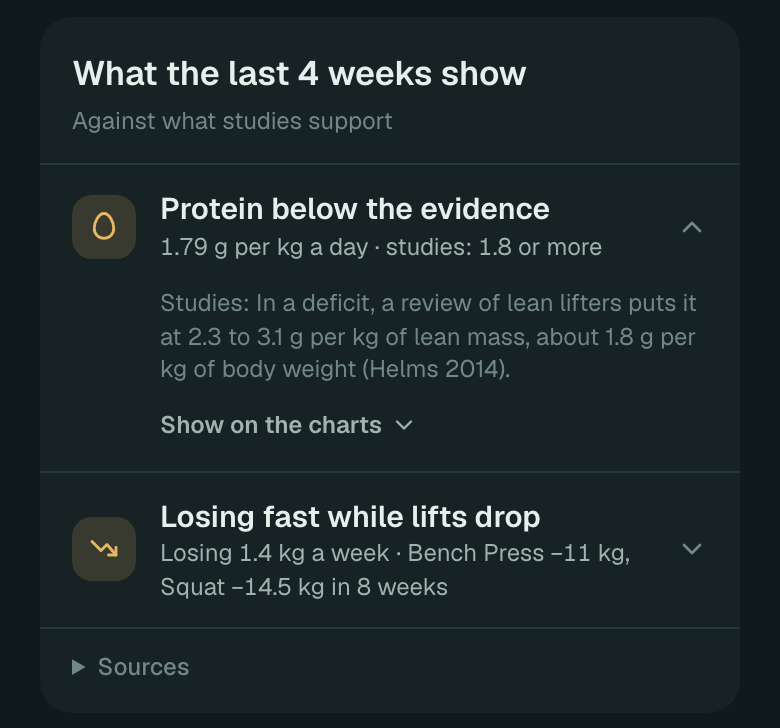
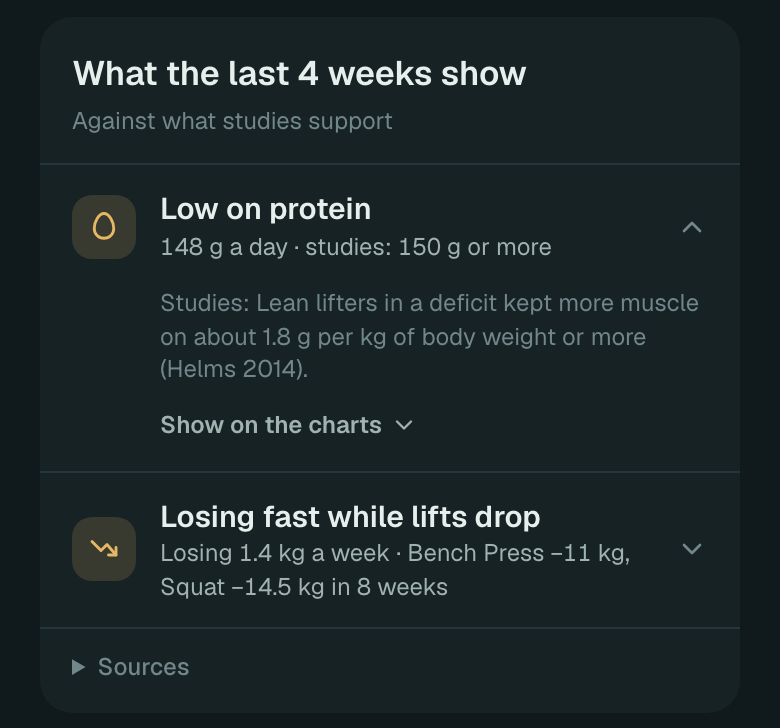
PR3d: plain words for low protein
The founder asked to leave technical wording out. "Protein below the
evidence" becomes "Low on protein", and the fact line gives grams a day
for the person's weight instead of g per kg.

- lib/physique/findings.ts: title, fact in grams (down and up so they never meet), shorter evidence
- lib/physique/__tests__/findings.test.ts: grams, and the first under the second
- docs/plan/STATUS.md, docs/plan/screens/PR3d: updated

Schema impact: none.

Changed region(s): [[0.2154, 0.3929, 0.8923, 0.544], [0.2154, 0.3324, 0.7692, 0.3626], [0.2154, 0.272, 0.7077, 0.3022]]

diff --git a/lib/physique/findings.ts b/lib/physique/findings.ts
@@ -245,12 +245,13 @@ export function findings(i: FindingInputs, through: LocalDate): Finding[] {
       const perKg = Number(gPerKg.toFixed(1)) >= floor ? gPerKg.toFixed(2) : gPerKg.toFixed(1);
       out.push({
         id: "protein-low",
-        title: "Protein below the evidence",
-        fact: `${perKg} g per kg a day · studies: ${floor.toFixed(1)} or more`,
+        title: "Low on protein",
+        // Plain grams for this person's weight, not g/kg (the founder: no technical wording). Down and up so the two never meet.
+        fact: `${Math.floor(g)} g a day · studies: ${Math.ceil(floor * endKg)} g or more`,
         // Two decimals when one would round up to the level it is under ("1.8, under 1.8" read as a contradiction).
         data: `Protein averaged ${n0(g)} g a day over ${complete.length} complete days in the last 4 weeks, ${perKg} g per kg of body weight.`,
         evidence: cut
-          ? `In a deficit, a review of lean lifters puts it at 2.3 to 3.1 g per kg of lean mass, about 1.8 g per kg of body weight (Helms 2014).`
+          ? `Lean lifters in a deficit kept more muscle on about 1.8 g per kg of body weight or more (Helms 2014).`
           : `Across 49 trials, gains from training levelled off at about 1.6 g per kg a day (Morton 2018).`,
         sources: cut ? ["Helms ER et al. Int J Sport Nutr Exerc Metab 2014;24:127–38"] : ["Morton RW et al. Br J Sports Med 2018;52:376–84"],
       });

diff --git a/lib/physique/__tests__/findings.test.ts b/lib/physique/__tests__/findings.test.ts
@@ -107,7 +107,9 @@ describe("Findings in a line (PR3d)", () => {
     const gain = run(gainSpec).find((f) => f.id === "gain-fast")!;
     expect(gain.fact).toMatch(/^Gaining \d\.\d kg a week · studies: up to \d\.\d kg$/);
     const protein = run(gainSpec).find((f) => f.id === "protein-low")!;
-    expect(protein.fact).toMatch(/^\d\.\d\d? g per kg a day · studies: 1\.6 or more$/);
+    expect(protein.fact).toMatch(/^\d+ g a day · studies: \d+ g or more$/);
+    const [had, need] = protein.fact.match(/\d+/g)!.map(Number);
+    expect(had).toBeLessThan(need);
   });
 
   it("follows the display unit", () => {

diff --git a/docs/plan/STATUS.md b/docs/plan/STATUS.md
@@ -120,7 +120,7 @@ Record wrong verdicts here as `YYYY-MM-DD · rule id · what it said · what was
 | PR3 Progress: goal first, connections in kg, every line named | done | 2026-10-21 | Founder review of Progress: the engine is right but the screen read as a data dump ("a quick glance at connections doesn't really tell me much and looks dull"); kilos read better than percent at a glance; no long descriptions (the AI coach will explain later), but an option to see where a connection came from, with a graph. Progress stays the one place that brings every part of the app together. **Earns its place:** no other app puts a lifter's own sessions against their sleep and food and says it in kilos on their own squat; MacroFactor, WHOOP and Bevel show each measure on its own screen. **From Mobbin:** WHOOP Recovery Impact Analysis (ranked list, one row per behaviour, the non-results shown greyed), Garmin Connect behaviour impact ("average when yes / when no", two numbers side by side), WHOOP Trend View (labelled reference lines, date at the top while scrubbing), Bevel Recovery (each value against your own range). **Order:** goal, Connections, Findings, Over time, weigh-ins and waist. **Goal card** (`components/progress/GoalCard.tsx`, replaces This week and Goal progress): trend weight, kg to go, bar from start, the date, "Losing 0.2 kg a week · plan 0.4 kg" and the judge's word; safety notes in full; Weekly report row; the small-caps caption, "Sleep is short" and the targets row left the page. **Connections** (`components/report/Connections.tsx`, also on the report): one row per thing checked, icon, label, "7h 48m vs 6h 10m", the difference in kg on the main lift trained most (ties: the heaviest), "No clear link" greyed, "With calories" for a condition merged into another; a row opens its sessions as two dot rows against usual with each group's average, the gap in kg (clear links only) and the studies line. Tapping a connection no longer jumps to the charts. **Engine:** `lib/physique/liftEffect.ts` (`referenceLift`, `effectKg`, `formatEffect` to 0.5 kg / 1 lb, `compareText`), `progressTimeline` adds `liftWeeks` (each main lift's weekly best e1RM with a least-squares line from 4 columns, `LIFT_FIT_MIN_COLUMNS`) and `summary.usualSleepH` (median night over the range). **Timeline:** weight with the goal line, calories as eaten against maintenance with the gap shaded, protein against target, training, one chart per main lift in kg (X1, opens `/exercise`), sleep against your usual (hollow weeks 15 min or more under) instead of 7 h; each reference line named in its heading with a line sample; the picked week's dates at the top. New token `chart-lift` (gold) in DESIGN.md rev 4.3 so lifts read apart from sets. Removed: `ThisWeekCard`, `GoalProgress`, `GoalEtaLine`, the connection focus on the timeline. **Deviation:** C7 had removed the "No clear difference" list; the founder approved bringing the non-results back as greyed "No clear link" rows in the PR3 mock. Tests: 8 new (lift weeks and line, usual sleep, reference lift and tie, kg and rounding, compare wording). Evidence: `npm run check` 594/594, eslint 0 errors, `npm run build` passes; Chromium 390px light and dark on the CONNECTIONS seed: `docs/plan/screens/PR3/` (Sleep +4 kg on squat, Calories +4 kg moved with carbs, opened sleep and protein rows, week of 14 Sep picked); `/code-review medium`: no findings. Not deployed yet (Vercel daily limit, see PR2). Schema impact: none. |
 | PR3b Train: no "Early read" | done | 2026-10-21 | Founder: on Train it says "Early read", "no clue what this means, it can go". It was the Strength row's word for the strength engine's `unclear` (too little to compare since the goal began), with a sub line that said no more. The row now shows only when there is a reading (rising, holding, one lift down, dropping); the Exercises row below opens the same charts. Evidence: `npm run check` passes; in Chromium on the CONNECTIONS seed the row is gone, on LOSS-1 it reads "Dropping · Squat −12%, Bench Press −7%". Schema impact: none. |
 | PR3c Progress tested on every seed | done | 2026-10-21 | Founder: test Progress on several data sets for whether it gives valuable insight. All 14 `/dev/seed-physique` presets run at 390px against what each was built to contain. **Fixed:** (1) each lift's change was a plain line through one best a week, so flat lifts with 3% session noise read "+6 kg" or "−2.5 kg" and on SHORT SLEEP + LOW PROTEIN contradicted Findings ("Squat −3.2%" beside "+2 kg"): the line now runs through every session and its change shows only at 2.5 standard errors from flat (`LIFT_FIT_Z`; at most 3 of 60 flat lifts in the test), otherwise the level alone and no claim (a sudden drop can fail a straight line, so "steady" would say too much; a second step test was tried and dropped as too noisy); (2) a date over half a year out read like a past one ("Around Wed 15 Sep" on UNDER-LOGGING): now "Around Sep 2027", and the year shows across a new year; (3) "Date in two weeks" read as the goal date: now "A date after two weeks of weigh-ins"; (4) "Moving away from the target" beside "Holding steady" (SLEEP-1): "No date at this rate"; (5) a goal the app won't coach (SAFE-0/3/4/5) no longer shows a date, kg to go or the bar; (6) "Calibrating" and "No goal set" left the goal card (they only said there was nothing to judge yet); (7) the weight summary said "over 3 months" for 10 days of data: "since 12 Oct"; (8) the protein finding read "1.8 g per kg" under "about 1.8": two decimals when one rounds up to the level. **Left for the founder** (see the session report): Findings are still long paragraphs in %; Connections stay empty until about 24 sessions (8 weeks at three a week); HRV and resting heart rate are not on Progress (WATCH); sleep against your usual hides chronically short sleep on the chart (SLEEP-1, Findings still says it); maintenance from an incomplete log makes the calorie gap read wrong (UNDER-LOGGING, Findings explains it); 3M on a short history leaves most of each chart empty. Tests: 2 new (flat lifts rarely clear; an 8% drop over 8 weeks clear). Evidence: `npm run check` 597/597, eslint 0 errors; screenshots `docs/plan/screens/PR3c/`. Schema impact: none. |
-| PR3d Findings in a line; Connections show their progress | done | 2026-10-21 | Founder picked two of the PR3c leftovers. **Findings** (`components/report/Findings.tsx`, Progress and the report): "What the last 4 weeks show · Against what studies support", one row per finding as in Connections: a short title, one line of the person's numbers in kilos ("Losing 1.4 kg a week · Bench Press −11 kg, Squat −14.5 kg in 8 weeks", "1.79 g per kg a day · studies: 1.8 or more", "Logged 1,701 kcal a day · lying still uses about 2,000"); a row opens one sentence of evidence and "Show on the charts". Engine (`lib/physique/findings.ts`): `fact` added, titles shortened, evidence cut to one sentence each with the source named (the full references stay under Sources), `liftProgress` gives each lift's change in kg; `data` keeps the full sentences for the assistant. **Connections before the first read** (`components/report/Connections.tsx`): the bar of sessions against the 24 the comparisons need ("16 of 24 sessions"), "About 4 weeks at your pace" from the last four weeks' sessions (`recentPerWeek`, `CONN_PACE_DAYS` in `lib/physique/connections.ts`), and what will be checked; the minimum is unchanged (a third of 24 is the smallest group a difference is read from). Tests: 5 new (a short fact in kilos and one sentence of evidence for every finding, kg rate and lifts, lb follows the unit, lift change in kg, the pace). Evidence: `npm run check` 602/602, eslint 0 errors, `npm run build` passes; Chromium 390px light and dark on LOSS-1, SHORT SLEEP + LOW PROTEIN, UNDER-LOGGING, ON-TRACK and Early read: `docs/plan/screens/PR3d/`. Schema impact: none. |
+| PR3d Findings in a line; Connections show their progress | done | 2026-10-21 | Founder picked two of the PR3c leftovers. **Findings** (`components/report/Findings.tsx`, Progress and the report): "What the last 4 weeks show · Against what studies support", one row per finding as in Connections: a short title, one line of the person's numbers in kilos ("Losing 1.4 kg a week · Bench Press −11 kg, Squat −14.5 kg in 8 weeks", "Low on protein · 148 g a day · studies: 150 g or more" (plain words, grams for the person's weight, the founder: no technical wording; first rounded down and second up so they never meet), "Logged 1,701 kcal a day · lying still uses about 2,000"); a row opens one sentence of evidence and "Show on the charts". Engine (`lib/physique/findings.ts`): `fact` added, titles shortened, evidence cut to one sentence each with the source named (the full references stay under Sources), `liftProgress` gives each lift's change in kg; `data` keeps the full sentences for the assistant. **Connections before the first read** (`components/report/Connections.tsx`): the bar of sessions against the 24 the comparisons need ("16 of 24 sessions"), "About 4 weeks at your pace" from the last four weeks' sessions (`recentPerWeek`, `CONN_PACE_DAYS` in `lib/physique/connections.ts`), and what will be checked; the minimum is unchanged (a third of 24 is the smallest group a difference is read from). Tests: 5 new (a short fact in kilos and one sentence of evidence for every finding, kg rate and lifts, lb follows the unit, lift change in kg, the pace). Evidence: `npm run check` 602/602, eslint 0 errors, `npm run build` passes; Chromium 390px light and dark on LOSS-1, SHORT SLEEP + LOW PROTEIN, UNDER-LOGGING, ON-TRACK and Early read: `docs/plan/screens/PR3d/`. Schema impact: none. |
 | W2 Gaps stated plainly | done | 2026-10-17 | `lib/physique/gaps.ts` (pure): the 7 days before today (`GAP_LOOKBACK_DAYS`), never today; a kind has gaps only from its first record onward; fasting days and edited totals count as logged; a kind with nothing in the whole window collapses to one line ("No weigh-ins in the last 7 days"); sentences "Yesterday / Thursday / Last Friday has no food logged · weigh-in · sleep logged", newest first. 6 tests in `__tests__/gaps.test.ts`. `components/physique/GapRows.tsx` ("Not logged" group, one row per gap) on Home (`GapLines.tsx`, all kinds, 5 rows then "N more, shown on each tab", plain anchors into `/food|/body|/sleep?date=`), Food (under the week strip; a row opens `components/food/GapSheet.tsx`: Log food, copy a nearby logged day onto it with a ‹ › picker, or Fasting day / set a total through Edit day; `/food?date=` on a past unlogged day opens the sheet straight away), Body (a row opens the weight sheet on that day) and Sleep (a row opens the sleep sheet for that night). No streaks, no nudges, nothing when nothing is missing. Browser run at 390 px with seeded gaps: Home 5 rows, Home → Food link opened the sheet, copy filled the day and the row went, Body row opened "Thu 15 Oct", Sleep row opened "Night before Fri 16 Oct", no section once complete, no horizontal scroll. Screenshots `docs/plan/screens/W2/`. |
 
 ## M2 — Hardening
